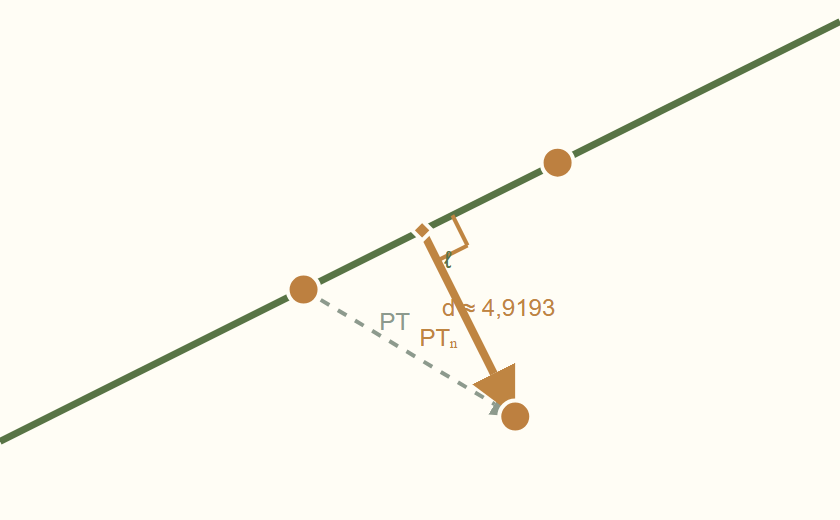
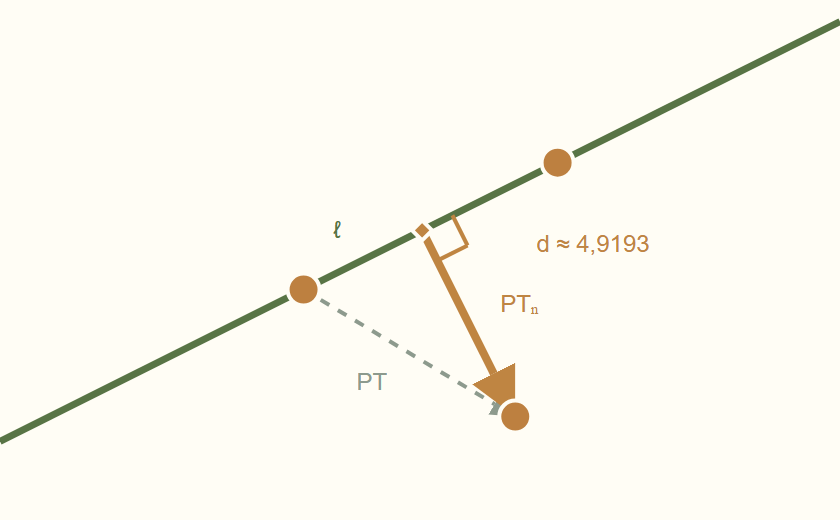
fix: line-geometry board texts stay clear of lines, markers and each other
Every board text of the line geometry graph (line names, direction and normal
vector names, the angle and distance readouts, PT and its projection) is placed
by the bounded candidate search of the linear program, which moves to
src/graphs/legend/boardLabelPlacement.ts now that two graphs share it. The four
analytic-lines cards are recaptured.

Claude-Session: https://claude.ai/code/session_01UfEZWQEwZHrfX6P9MLA3xk

diff --git a/src/graphs/lines/LineGeometryGraph.tsx b/src/graphs/lines/LineGeometryGraph.tsx
@@ -19,6 +19,7 @@ import {
 import {PresetCollection} from "../base/presets/PresetCollection";
 import {Preset} from "../base/presets/Presets";
 import {lineGeometryPresetCollection} from "./linePresetCollection";
+import {placeLpLabels, sampleLine, type LabelItem, type PxBox} from "../legend/boardLabelPlacement";
 
 /** The scene state: the mode, what the intersect mode meets, and the integer grid handles. */
 export type LineGeometryGraphState = BaseGraphState & LineGeometryState;
@@ -45,6 +46,11 @@ export const NORMAL_ARROW_LENGTH = 3;
 export const ARC_RADIUS = 3;
 export const RIGHT_ANGLE_SIZE = 0.8;
 const LABEL_OFFSET = 0.9;
+/** The estimate of a board text's size (15 px font) and of the room a marker takes, for the pixel placement of the texts. */
+const LABEL_CHAR_PX = 8;
+const LABEL_HEIGHT_PX = 22;
+const MARKER_RADIUS_PX = 9;
+const ARROWHEAD_RADIUS_PX = 14;
 
 /** Counts the graphs built, so the help ids of two instances on one page do not collide. */
 const toDegrees = (radians: number) => (radians * 180) / Math.PI;
@@ -367,6 +373,91 @@ export class LineGeometryGraph extends BaseGraph<LineGeometryGraphState, LineGeo
         return element;
     }
 
+    private layoutCache: {key: string; boxes: Record<string, PxBox>} = {key: "", boxes: {}};
+
+    /**
+     * The boxes (px from the board's top left corner, y down) of the board texts, each the free spot nearest to its anchor that clears the
+     * handles and markers, the drawn lines, arrows and arc, and the texts placed before it (a bounded search, see `placeLpLabels`).
+     */
+    labelBoxes(): Record<string, PxBox> {
+        if (!this.hasBoard || !(this.board.canvasWidth > 0) || !(this.board.canvasHeight > 0)) return {};
+        const [left, top] = this.board.getBoundingBox();
+        const ux = Number.isFinite(this.board.unitX) && this.board.unitX > 0 ? this.board.unitX : 1;
+        const uy = Number.isFinite(this.board.unitY) && this.board.unitY > 0 ? this.board.unitY : 1;
+        const width = this.board.canvasWidth, height = this.board.canvasHeight;
+        const key = [ux, uy, left, top, width, height, this.stateKey(), currentLanguage()].join("|");
+        if (key === this.layoutCache.key) return this.layoutCache.boxes;
+        const state = this.state;
+        const view = this.view();
+        const toPx = (p: GridXY): readonly [number, number] => [(p.x - left) * ux, (top - p.y) * uy];
+        const mid = (p: GridXY, q: GridXY): GridXY => ({x: (p.x + q.x) / 2, y: (p.y + q.y) / 2});
+        const along = (p: GridXY, q: GridXY, t: number): GridXY => ({x: p.x + (q.x - p.x) * t, y: p.y + (q.y - p.y) * t});
+        const samples: Array<readonly [number, number]> = [];
+        const segmentOf = (p: GridXY, q: GridXY) =>
+            samples.push(...sampleLine([p.x, q.x], [p.y, q.y], (a, b) => toPx({x: a, y: b}), width, height, 4, 500));
+        const lineOf = (p: GridXY, q: GridXY) => {
+            const length = Math.hypot(q.x - p.x, q.y - p.y);
+            if (length > 0) segmentOf(along(p, q, -60 / length), along(p, q, 60 / length));
+        };
+        const items: LabelItem[] = [];
+        const add = (id: string, text: string, anchors: readonly GridXY[]) => {
+            const [first, ...rest] = anchors.map(toPx);
+            if (first) items.push({id, ax: first[0], ay: first[1], alts: rest, w: text.length * LABEL_CHAR_PX + 8, h: LABEL_HEIGHT_PX});
+        };
+        const markerPoints: GridXY[] = shownHandles(state).map(field => state[field]);
+        /** The wide head of an arrow, about one unit before its tip (the stroke samples cover only the shaft). */
+        const headPoints: GridXY[] = [];
+        const headOf = (p: GridXY, q: GridXY) => headPoints.push(along(p, q, Math.max(0, 1 - 0.9 / (Math.hypot(q.x - p.x, q.y - p.y) || 1))));
+        const mode = state.mode;
+        const meets = mode === "intersect" && state.target === "lines";
+        const second = (mode === "normal" || mode === "angle" || meets) && view.derived.second !== undefined;
+        if (view.derived.first) lineOf(state.P, state.Q);
+        if (second) lineOf(state.R, state.S);
+        if (view.crossing && (mode === "angle" || meets)) markerPoints.push(view.crossing);
+        // The names of the lines go first: beside the line, near the middle of its two points, else along the line.
+        const lineAnchors = (p: GridXY, q: GridXY) => [0.5, 0.25, 0.75, 0, 1, -0.3, 1.3].map(t => along(p, q, t));
+        if (view.derived.first) add("first", "ℓ", lineAnchors(state.P, state.Q));
+        if (second) add("second", "m", lineAnchors(state.R, state.S));
+        if (mode === "normal") {
+            for (const arrow of [view.normalArrow, view.secondNormalArrow]) if (arrow) { segmentOf(arrow.from, arrow.to); headOf(arrow.from, arrow.to); }
+            if (view.normalArrow) add("n1", "n₁", [view.normalArrow.to, along(view.normalArrow.from, view.normalArrow.to, 0.5)]);
+            if (view.secondNormalArrow) add("n2", "n₂", [view.secondNormalArrow.to, along(view.secondNormalArrow.from, view.secondNormalArrow.to, 0.5)]);
+        }
+        if (mode === "angle" && view.derived.first && second) {
+            const {crossing, arc} = view;
+            if (crossing && arc) {
+                for (let i = 0; i <= 11; i++) {
+                    const angle = arc.start + (arc.sweep * i) / 11;
+                    samples.push(toPx({x: crossing.x + ARC_RADIUS * Math.cos(angle), y: crossing.y + ARC_RADIUS * Math.sin(angle)}));
+                }
+                add("alpha", `α = ${formatNumber(arc.degrees, currentLanguage(), 4)}°`, [arc.label]);
+            }
+            add("u", "u", [along(state.P, state.Q, 0.5), along(state.P, state.Q, 0.25), along(state.P, state.Q, 0.75)]);
+            add("v", "v", [along(state.R, state.S, 0.5), along(state.R, state.S, 0.25), along(state.R, state.S, 0.75)]);
+        }
+        if (mode === "distance" && view.foot) {
+            markerPoints.push(view.foot);
+            segmentOf(state.P, state.T);
+            add("pt", "PT", [mid(state.P, state.T), along(state.P, state.T, 0.35), along(state.P, state.T, 0.65)]);
+            if (view.rightAngle) {
+                segmentOf(view.foot, state.T);
+                headOf(view.foot, state.T);
+                segmentOf(view.rightAngle[0], view.rightAngle[1]);
+                segmentOf(view.rightAngle[1], view.rightAngle[2]);
+                add("ptn", "PTₙ", [along(view.foot, state.T, 0.55), along(view.foot, state.T, 0.3)]);
+                const distanceText = `d ≈ ${formatNumber(view.derived.distance?.distance ?? NaN, currentLanguage(), 4)}`;
+                add("d", distanceText, [along(view.foot, state.T, 0.4), along(view.foot, state.T, 0.7), along(view.foot, state.T, 0.2)]);
+            }
+        }
+        const markers = [
+            ...markerPoints.map((p): readonly [number, number, number] => [...toPx(p), MARKER_RADIUS_PX]),
+            ...headPoints.map((p): readonly [number, number, number] => [...toPx(p), ARROWHEAD_RADIUS_PX]),
+        ];
+        const boxes = placeLpLabels(items, {width, height, markers, samples, strips: [], blocks: []});
+        this.layoutCache = {key, boxes};
+        return boxes;
+    }
+
     private buildScene(): void {
         this.disposeScene();
         const board = this.board;
@@ -397,8 +488,13 @@ export class LineGeometryGraph extends BaseGraph<LineGeometryGraphState, LineGeo
             this.own(board.create("segment", [a, b], {
                 strokeColor: color, strokeWidth: width, dash, fixed: true, highlight: false, visible, withLabel: false, lastArrow,
             }));
-        const label = (x: Place, y: Place, text: () => string, color: string, visible: Visible) =>
-            this.own(board.create("text", [x, y, text], {
+        // A text sits at the centre of its placed box (see `labelBoxes`), or at the data position when the board has no size yet.
+        const label = (id: string, x: Place, y: Place, text: () => string, color: string, visible: Visible) =>
+            this.own(board.create("text", [
+                () => { const box = this.labelBoxes()[id]; return box ? board.getBoundingBox()[0] + (box.x0 + box.x1) / 2 / board.unitX : x(); },
+                () => { const box = this.labelBoxes()[id]; return box ? board.getBoundingBox()[1] - (box.y0 + box.y1) / 2 / board.unitY : y(); },
+                text,
+            ], {
                 strokeColor: color, fontSize: 15, anchorX: "middle", anchorY: "middle", fixed: true, highlight: false, withLabel: false, visible,
             }));
         const line = (a: JXG.Point, b: JXG.Point, color: string, visible: Visible) =>
@@ -424,48 +520,48 @@ export class LineGeometryGraph extends BaseGraph<LineGeometryGraphState, LineGeo
         // ---- the lines, each through two owned hidden points that follow the state
         line(hidden(at("P", "x"), at("P", "y")), hidden(at("Q", "x"), at("Q", "y")), GraphPalette.primaryCurve, firstDrawn);
         line(hidden(at("R", "x"), at("R", "y")), hidden(at("S", "x"), at("S", "y")), GraphPalette.comparisonCurve, secondDrawn);
-        label(() => this.view().firstLabel?.x ?? 0, () => this.view().firstLabel?.y ?? 0, () => "ℓ", GraphPalette.primaryCurve, firstDrawn);
-        label(() => this.view().secondLabel?.x ?? 0, () => this.view().secondLabel?.y ?? 0, () => "m", GraphPalette.comparisonCurve, secondDrawn);
+        label("first", () => this.view().firstLabel?.x ?? 0, () => this.view().firstLabel?.y ?? 0, () => "ℓ", GraphPalette.primaryCurve, firstDrawn);
+        label("second", () => this.view().secondLabel?.x ?? 0, () => this.view().secondLabel?.y ?? 0, () => "m", GraphPalette.comparisonCurve, secondDrawn);
 
         // ---- normal mode: the normal arrows n₁ on the first line and n₂ on the second
-        const normalArrowOf = (pick: (view: View) => NormalArrow | undefined, caption: string) => {
+        const normalArrowOf = (id: string, pick: (view: View) => NormalArrow | undefined, caption: string) => {
             const drawn: Visible = () => mode() === "normal" && pick(this.view()) !== undefined;
             const end = (key: "from" | "to", axis: "x" | "y"): Place => () => pick(this.view())?.[key][axis] ?? 0;
             segment(hidden(end("from", "x"), end("from", "y")), hidden(end("to", "x"), end("to", "y")), GraphPalette.constructionAccent, 4, 0, drawn, true);
-            label(() => pick(this.view())?.label.x ?? 0, () => pick(this.view())?.label.y ?? 0, () => caption, GraphPalette.constructionAccent, drawn);
+            label(id, () => pick(this.view())?.label.x ?? 0, () => pick(this.view())?.label.y ?? 0, () => caption, GraphPalette.constructionAccent, drawn);
         };
-        normalArrowOf(view => view.normalArrow, "n₁");
-        normalArrowOf(view => view.secondNormalArrow, "n₂");
+        normalArrowOf("n1", view => view.normalArrow, "n₁");
+        normalArrowOf("n2", view => view.secondNormalArrow, "n₂");
 
         // ---- angle mode: the direction vectors u (P to Q) and v (R to S), the arc at the common point
         const angleDrawn: Visible = () => mode() === "angle" && bothDrawn();
         segment(h("P"), h("Q"), GraphPalette.primaryCurve, 2, 2, angleDrawn, true);
         segment(h("R"), h("S"), GraphPalette.comparisonCurve, 2, 2, angleDrawn, true);
         const middle = (a: PointField, b: PointField, axis: "x" | "y", shift: number): Place => () => (this.state[a][axis] + this.state[b][axis]) / 2 + shift;
-        label(middle("P", "Q", "x", 0.7), middle("P", "Q", "y", -0.7), () => "u", GraphPalette.primaryCurve, angleDrawn);
-        label(middle("R", "S", "x", 0.7), middle("R", "S", "y", -0.7), () => "v", GraphPalette.comparisonCurve, angleDrawn);
+        label("u", middle("P", "Q", "x", 0.7), middle("P", "Q", "y", -0.7), () => "u", GraphPalette.primaryCurve, angleDrawn);
+        label("v", middle("R", "S", "x", 0.7), middle("R", "S", "y", -0.7), () => "v", GraphPalette.comparisonCurve, angleDrawn);
         const arcDrawn: Visible = () => angleDrawn() && this.view().arc !== undefined;
         this.own(board.create("curve", [
             (s: number) => (this.view().crossing?.x ?? 0) + ARC_RADIUS * Math.cos((this.view().arc?.start ?? 0) + s * (this.view().arc?.sweep ?? 0)),
             (s: number) => (this.view().crossing?.y ?? 0) + ARC_RADIUS * Math.sin((this.view().arc?.start ?? 0) + s * (this.view().arc?.sweep ?? 0)),
             0, 1,
         ], {strokeColor: GraphPalette.constructionAccent, strokeWidth: 3, fixed: true, highlight: false, withLabel: false, visible: arcDrawn}));
-        label(() => this.view().arc?.label.x ?? 0, () => this.view().arc?.label.y ?? 0,
+        label("alpha", () => this.view().arc?.label.x ?? 0, () => this.view().arc?.label.y ?? 0,
             () => `α = ${formatNumber(this.view().arc?.degrees ?? NaN, currentLanguage(), 4)}°`, GraphPalette.constructionAccent, arcDrawn);
 
         // ---- distance mode: PT, the foot F, the projection of PT on the normal (the vector F to T) and the right angle at F
         const distanceDrawn: Visible = () => mode() === "distance" && this.view().foot !== undefined;
         const offLine: Visible = () => distanceDrawn() && this.view().rightAngle !== undefined;
         segment(h("P"), h("T"), GraphPalette.referenceCurve, 2, 2, distanceDrawn, true);
-        label(() => this.view().pointVectorLabel?.x ?? 0, () => this.view().pointVectorLabel?.y ?? 0, () => "PT", GraphPalette.referenceCurve, distanceDrawn);
+        label("pt", () => this.view().pointVectorLabel?.x ?? 0, () => this.view().pointVectorLabel?.y ?? 0, () => "PT", GraphPalette.referenceCurve, distanceDrawn);
         const foot = marker(() => this.view().foot?.x ?? 0, () => this.view().foot?.y ?? 0, "diamond", GraphPalette.constructionAccent, 5, distanceDrawn, "F");
         segment(foot, h("T"), GraphPalette.constructionAccent, 4, 0, offLine, true);
-        label(() => this.view().projectionLabel?.x ?? 0, () => this.view().projectionLabel?.y ?? 0, () => "PTₙ", GraphPalette.constructionAccent, offLine);
+        label("ptn", () => this.view().projectionLabel?.x ?? 0, () => this.view().projectionLabel?.y ?? 0, () => "PTₙ", GraphPalette.constructionAccent, offLine);
         const corner = (index: 0 | 1 | 2) => hidden(() => this.view().rightAngle?.[index].x ?? 0, () => this.view().rightAngle?.[index].y ?? 0);
         const [r0, r1, r2] = [corner(0), corner(1), corner(2)];
         segment(r0, r1, GraphPalette.constructionAccent, 2, 0, offLine);
         segment(r1, r2, GraphPalette.constructionAccent, 2, 0, offLine);
-        label(() => this.view().distanceLabel?.x ?? 0, () => this.view().distanceLabel?.y ?? 0,
+        label("d", () => this.view().distanceLabel?.x ?? 0, () => this.view().distanceLabel?.y ?? 0,
             () => `d ≈ ${formatNumber(this.view().derived.distance?.distance ?? NaN, currentLanguage(), 4)}`, GraphPalette.constructionAccent, offLine);
 
         // ---- intersect mode: the common point of two lines (also the anchor of the angle arc), or the circle and its points

diff --git a/src/graphs/lines/LineGeometryLabels.test.tsx b/src/graphs/lines/LineGeometryLabels.test.tsx
@@ -1,0 +1,86 @@
+import React from 'react';
+import {act, render} from '@testing-library/react';
+import {MemoryRouter} from 'react-router-dom';
+import {GraphHost} from '../base/GraphHost';
+import {installBoardShims} from '../base/realGraphTestHarness';
+import {setLanguage} from '../../localization';
+import {sampleLine, type PxBox} from '../legend/boardLabelPlacement';
+import {LineGeometryGraph} from './LineGeometryGraph';
+import type {PointField} from './lineGeometryModel';
+
+beforeAll(installBoardShims);
+beforeEach(() => setLanguage('sl'));
+
+class Probe extends LineGeometryGraph {
+    liveBoard() { return this.board; }
+}
+
+type Shown = {elType: string; evalVisProp(name: string): unknown; plaintext?: string; visProp: Record<string, unknown>};
+type Scene = {mode: 'forms' | 'normal' | 'angle' | 'distance'; points: Partial<Record<PointField, [number, number]>>};
+
+/** The opening scene of each section of the analytic-lines chapter (the cards) and a few further scenes of the same modes. */
+const SCENES: Record<string, Scene> = {
+    forms: {mode: 'forms', points: {P: [-2, 1], Q: [4, 4]}},
+    normal: {mode: 'normal', points: {P: [-2, 1], Q: [4, 4], R: [3, -2], S: [5, -2]}},
+    angle: {mode: 'angle', points: {P: [-2, 1], Q: [0, 2], R: [0, 2], S: [1, 5]}},
+    angleOther: {mode: 'angle', points: {P: [-2, 1], Q: [2, 2], R: [-2, 1], S: [-1, 4]}},
+    angleSwap: {mode: 'angle', points: {P: [-2, 1], Q: [0, 2], R: [1, 5], S: [0, 2]}},
+    distance: {mode: 'distance', points: {P: [-2, 1], Q: [4, 4], T: [3, -2]}},
+    distanceOtherSide: {mode: 'distance', points: {P: [-2, 1], Q: [4, 4], T: [-3, 4]}},
+};
+
+const overlaps = (a: PxBox, b: PxBox) => a.x0 < b.x1 && a.x1 > b.x0 && a.y0 < b.y1 && a.y1 > b.y0;
+
+function mountScene(scene: Scene) {
+    const graph = new Probe();
+    render(<MemoryRouter><GraphHost create={() => graph}/></MemoryRouter>);
+    act(() => {
+        graph.applyLinesAction({kind: 'lines', operation: 'set-mode', mode: scene.mode});
+        graph.applyLinesAction({kind: 'lines', operation: 'set-points', points: Object.fromEntries(Object.entries(scene.points).map(([k, [x, y]]) => [k, {x, y}]))});
+    });
+    act(() => { graph.liveBoard().update(); });
+    return graph;
+}
+
+/** What the board draws, in px from the top left corner (y down): the shown texts with their estimated boxes, the point markers and samples of the strokes. */
+function drawn(graph: Probe) {
+    const board = graph.liveBoard();
+    const [left, top] = board.getBoundingBox();
+    const toPx = (x: number, y: number): readonly [number, number] => [(x - left) * board.unitX, (top - y) * board.unitY];
+    const width = board.canvasWidth, height = board.canvasHeight;
+    const shown = (board.objectsList as unknown as Shown[]).filter(o => Boolean(o.evalVisProp('visible')));
+    const labels = shown.filter(o => o.elType === 'text' && o.visProp.fontsize === 15).map(o => {
+        const text = o as unknown as JXG.Text & {plaintext?: string};
+        const [cx, cy] = toPx(text.X(), text.Y());
+        const w = (text.plaintext ?? '').length * 8 + 4;
+        return {text: text.plaintext ?? '', box: {x0: cx - w / 2, y0: cy - 10, x1: cx + w / 2, y1: cy + 10} as PxBox};
+    });
+    const markers = shown.filter(o => o.elType === 'point').map(o => toPx((o as unknown as JXG.Point).X(), (o as unknown as JXG.Point).Y()));
+    const samples = shown.filter(o => o.elType === 'line' || o.elType === 'segment').flatMap(o => {
+        const l = o as unknown as JXG.Line;
+        const [x0, y0, x1, y1] = [l.point1.X(), l.point1.Y(), l.point2.X(), l.point2.Y()];
+        const dx = x1 - x0, dy = y1 - y0, length = Math.hypot(dx, dy) || 1;
+        const reach = o.elType === 'line' ? 60 / length : 1;
+        const from = o.elType === 'line' ? -reach : 0;
+        return sampleLine([x0 + dx * from, x0 + dx * reach], [y0 + dy * from, y0 + dy * reach], toPx, width, height, 2, 2000);
+    });
+    return {labels, markers, samples};
+}
+
+describe('LineGeometryGraph board text placement', () => {
+    for (const [name, scene] of Object.entries(SCENES)) {
+        it(`${name}: every text is clear of the markers, of the drawn lines and of the other texts`, () => {
+            const {labels, markers, samples} = drawn(mountScene(scene));
+            expect(labels.length).toBeGreaterThan(0);
+            for (const label of labels) {
+                const {box} = label;
+                for (const [mx, my] of markers) {
+                    expect(mx + 7 > box.x0 && mx - 7 < box.x1 && my + 7 > box.y0 && my - 7 < box.y1, `"${label.text}" lies on a marker`).toBe(false);
+                }
+                const hit = samples.find(([x, y]) => x >= box.x0 && x <= box.x1 && y >= box.y0 && y <= box.y1);
+                expect(hit, `"${label.text}" lies on a drawn line`).toBeUndefined();
+            }
+            labels.forEach((a, i) => labels.slice(i + 1).forEach(b => expect(overlaps(a.box, b.box), `"${a.text}" and "${b.text}" overlap`).toBe(false)));
+        });
+    }
+});

diff --git a/src/learning/chapter/guidedExamplePreviews.ts b/src/learning/chapter/guidedExamplePreviews.ts
@@ -52,7 +52,7 @@ const patchImageUrls = import.meta.glob<string>('/src/images/learning/examples/p
     import: 'default',
 });
 
-/** Captured images in one subdirectory per chapter-owned chapter (the chapter id, named in `chapterFamilies` of the capture script, one PNG per example id plus its manifest, written by the capture script (recaptured after board text layout passes), each chapter folder, the level-sets and solids ones too, are read here once its images exist); the patches subdirectory has its own lookup below. */
+/** Captured images in one subdirectory per chapter-owned chapter (the chapter id, named in `chapterFamilies` of the capture script, one PNG per example id plus its manifest, written by the capture script (recaptured after board text layout passes, the analytic-lines one too), each chapter folder, the level-sets and solids ones too, are read here once its images exist); the patches subdirectory has its own lookup below. */
 const chapterImageUrls = import.meta.glob<string>('/src/images/learning/examples/*/*.png', {
     eager: true,
     query: '?url',

diff --git a/src/graphs/legend/boardLabelPlacement.ts b/src/graphs/legend/boardLabelPlacement.ts
@@ -1,6 +1,6 @@
 /**
- * Pixel placement of the board texts of the linear program: the vertex coordinates, the objective handle's caption and the constraint
- * names. Each text takes the free spot nearest to its anchor from a bounded ring of candidates, so it clears the markers, the drawn
+ * Pixel placement of board texts (first written for the linear program, also used by the line geometry graph): point and line names,
+ * captions and coordinate texts. Each text takes the free spot nearest to its anchor from a bounded ring of candidates, so it clears the markers, the drawn
  * lines, the axes with their numbers, the legend stack and the texts placed before it. Pure: boxes are in pixels from the board's top
  * left corner, y down.
  */

diff --git a/src/graphs/levelsets/LinearProgramGraph.tsx b/src/graphs/levelsets/LinearProgramGraph.tsx
@@ -23,7 +23,7 @@ import {LpReadout} from "./LpPanels";
 import {lpPresetCollection, type LpPresetData} from "./lpPresetCollection";
 import {frameBelowLegend, legendBandPx, legendRowOffset} from "../legend/legendLines";
 import {Memo} from "./Memo";
-import {placeLpLabels, sampleLine, type LabelItem, type PxBox} from "./lpLabelLayout";
+import {placeLpLabels, sampleLine, type LabelItem, type PxBox} from "../legend/boardLabelPlacement";
 import type {PresetCollection} from "../base/presets/PresetCollection";
 import type {Preset, StoredGraphState} from "../base/presets/Presets";
 import type {LessonAction} from "../../learning/model";

diff --git a/src/graphs/levelsets/LinearProgramLabels.test.tsx b/src/graphs/levelsets/LinearProgramLabels.test.tsx
@@ -6,7 +6,7 @@ import {installBoardShims} from '../base/realGraphTestHarness';
 import {setLanguage} from '../../localization';
 import {DEFAULT_LP_STATE} from '../../optimization/lpModel';
 import LinearProgramGraph from './LinearProgramGraph';
-import type {PxBox} from './lpLabelLayout';
+import type {PxBox} from '../legend/boardLabelPlacement';
 
 beforeAll(installBoardShims);
 beforeEach(() => setLanguage('sl'));

diff --git a/docs/reviews/feature-streams/families-prep/notes/f5-analytic-lines.md b/docs/reviews/feature-streams/families-prep/notes/f5-analytic-lines.md
@@ -6,3 +6,10 @@
 - Frames viewed: forms one green line, two dots; normal green and horizontal blue lines, arrows n1 and n2; angle two lines, arc with value, u/v labels overlapping the line labels; distance PT dashed, foot arrow, corner mark, d value.
 - Alt text uses plain letters (no `\ell` in alt: mathAltText rejects backslashes) and states no first-step answer; the images do show the angle and d values.
 - Preview server on 4519 stopped; port closed. Logs: `.command-logs/f5-cards/analytic-lines/`.
+
+## Label pass (handler 20)
+
+- `LineGeometryGraph.tsx` `labelBoxes()` places every board text (names of the lines, n1/n2, u/v, the angle value, PT, PTn, d) by the bounded candidate search `placeLpLabels` (imported from `src/graphs/levelsets/lpLabelLayout.ts`, unchanged): clear of handles, foot and crossing markers, arrow heads, the drawn lines, the arc and each other. No new locale keys; texts and ids unchanged.
+- Defects before/after: u and v no longer sit on the names (angle card); d value, PT and PTn clear of the arrow and the dashed segment, l clear of the right-angle mark (distance card); l beside the line between the handles (forms card); n1 sits at its own arrow (normal card).
+- Test `src/graphs/lines/LineGeometryLabels.test.tsx`: seven scenes (the four card openings and three more); red before the fix (6 of 7 failed: l on a line or marker, v on a line, PT on a marker), green after.
+- Not changed: the handle name labels (P, Q, T, F) and axis tick numbers are not obstacles; at 390 px a name can touch a tick number. The inventory `expected` checks pass unchanged. Logs: `.command-logs/label-pass/analytic-lines/`.
